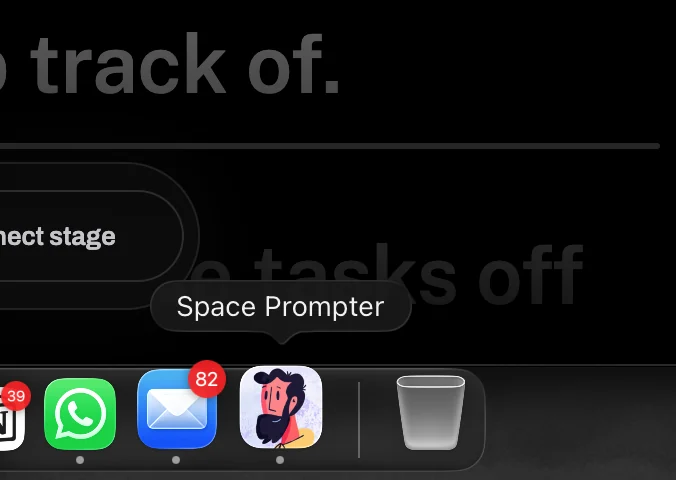
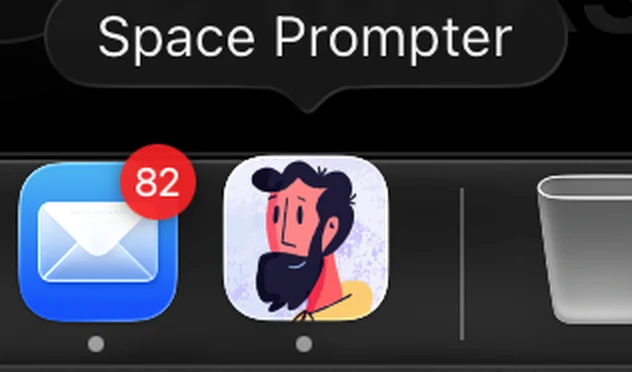
Landing install section: tight crops, matched frames, no letterbox strips
Claude-Session: https://claude.ai/code/session_01GfTH6qtmwMifLD2Ya2W4QS

diff --git a/landing/space-prompter/index.html b/landing/space-prompter/index.html
@@ -281,25 +281,25 @@ a{color:inherit;text-decoration:none}
     <div style="display:flex;flex-wrap:wrap;gap:20px;margin-top:56px">
       <div class="card" style="flex:1 1 calc(50% - 10px);min-width:280px;padding:22px;display:flex;flex-direction:column">
         <div style="margin-bottom:16px"><span style="width:32px;height:32px;border-radius:50%;border:1px solid #4a4a50;display:inline-flex;align-items:center;justify-content:center;font:700 13px 'Archivo',sans-serif;color:#F4F4F2">1</span></div>
-        <div style="height:280px;border-radius:12px;border:1px solid #26262A;background:#0A0A0B;margin-bottom:20px;overflow:hidden"><img src="shots/install-1.webp" width="880" height="560" loading="lazy" alt="The Install app button under the Space Prompter logo" style="display:block;width:100%;height:100%;object-fit:cover;object-position:top left"></div>
+        <div style="height:280px;border-radius:12px;border:1px solid #26262A;background:#101012;margin-bottom:20px;overflow:hidden"><img src="shots/install-1.webp" width="596" height="400" loading="lazy" alt="The Install app button under the Space Prompter logo" style="display:block;width:100%;height:100%;object-fit:cover;object-position:top left"></div>
         <h3 class="cardh">Click Install app</h3>
         <p class="cardp">Open <a href="https://prompter.shovonix.dev" target="_blank" rel="noopener" style="color:#F4F4F2;text-decoration:underline">prompter.shovonix.dev</a> and click Install app under the logo. The button only shows when the app is not installed yet.</p>
       </div>
       <div class="card" style="flex:1 1 calc(50% - 10px);min-width:280px;padding:22px;display:flex;flex-direction:column">
         <div style="margin-bottom:16px"><span style="width:32px;height:32px;border-radius:50%;border:1px solid #4a4a50;display:inline-flex;align-items:center;justify-content:center;font:700 13px 'Archivo',sans-serif;color:#F4F4F2">2</span></div>
-        <div style="height:280px;border-radius:12px;border:1px solid #26262A;background:#0A0A0B;margin-bottom:20px;overflow:hidden"><img src="shots/install-2.webp" width="1042" height="686" loading="lazy" alt="Chrome Install app dialog with Next button" style="display:block;width:100%;height:100%;object-fit:contain;object-position:center"></div>
+        <div style="height:280px;border-radius:12px;border:1px solid #26262A;background:#1a1a1a;margin-bottom:20px;overflow:hidden"><img src="shots/install-2.webp" width="1000" height="708" loading="lazy" alt="Chrome Install app dialog with Next button" style="display:block;width:100%;height:100%;object-fit:contain;object-position:center"></div>
         <h3 class="cardh">Press Next</h3>
         <p class="cardp">Chrome asks once whether to open this site in a dedicated window.</p>
       </div>
       <div class="card" style="flex:1 1 calc(50% - 10px);min-width:280px;padding:22px;display:flex;flex-direction:column">
         <div style="margin-bottom:16px"><span style="width:32px;height:32px;border-radius:50%;border:1px solid #4a4a50;display:inline-flex;align-items:center;justify-content:center;font:700 13px 'Archivo',sans-serif;color:#F4F4F2">3</span></div>
-        <div style="height:280px;border-radius:12px;border:1px solid #26262A;background:#0A0A0B;margin-bottom:20px;overflow:hidden"><img src="shots/install-3.webp" width="1058" height="626" loading="lazy" alt="Chrome install dialog with Install button" style="display:block;width:100%;height:100%;object-fit:contain;object-position:center"></div>
+        <div style="height:280px;border-radius:12px;border:1px solid #26262A;background:#1a1a1a;margin-bottom:20px;overflow:hidden"><img src="shots/install-3.webp" width="1000" height="610" loading="lazy" alt="Chrome install dialog with Install button" style="display:block;width:100%;height:100%;object-fit:contain;object-position:center"></div>
         <h3 class="cardh">Press Install</h3>
         <p class="cardp">The app is added to your Chrome Apps folder.</p>
       </div>
       <div class="card" style="flex:1 1 calc(50% - 10px);min-width:280px;padding:22px;display:flex;flex-direction:column">
         <div style="margin-bottom:16px"><span style="width:32px;height:32px;border-radius:50%;border:1px solid #4a4a50;display:inline-flex;align-items:center;justify-content:center;font:700 13px 'Archivo',sans-serif;color:#F4F4F2">4</span></div>
-        <div style="height:280px;border-radius:12px;border:1px solid #26262A;background:#0A0A0B;margin-bottom:20px;overflow:hidden"><img src="shots/install-5.webp" width="676" height="480" loading="lazy" alt="Space Prompter icon in the macOS Dock" style="display:block;width:100%;height:100%;object-fit:contain;object-position:center"></div>
+        <div style="height:280px;border-radius:12px;border:1px solid #26262A;background:#000;margin-bottom:20px;overflow:hidden"><img src="shots/install-5.webp" width="632" height="372" loading="lazy" alt="Space Prompter icon in the macOS Dock" style="display:block;width:100%;height:100%;object-fit:contain;object-position:center"></div>
         <h3 class="cardh">Launch it from the Dock</h3>
         <p class="cardp">It opens in its own window from your Dock, Launchpad or Start menu, like any other app.</p>
       </div>
